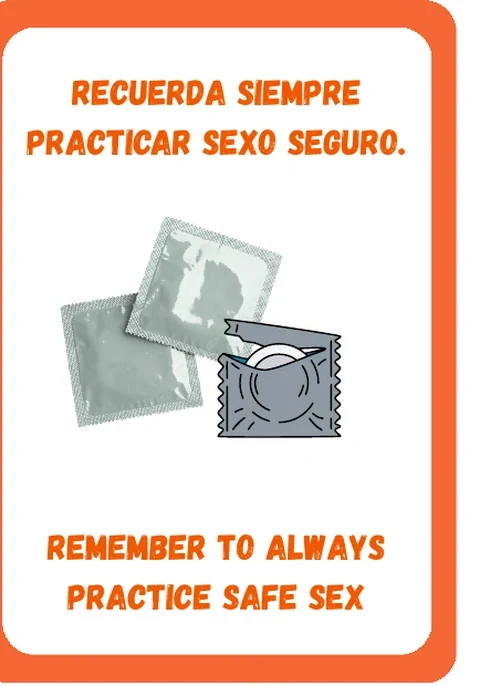
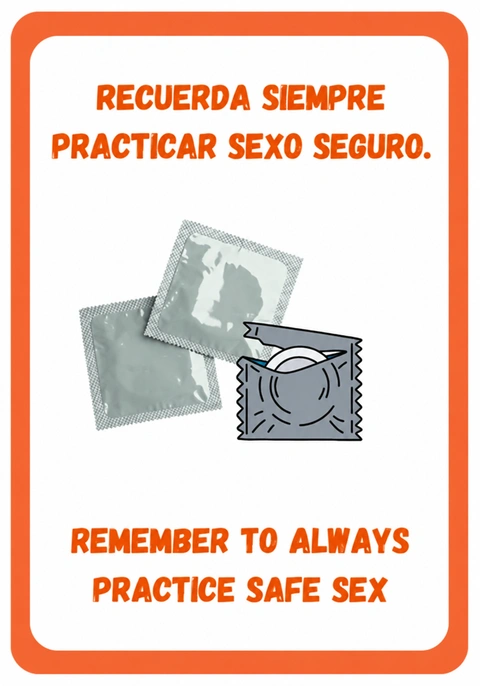
Fixing onine effects and image

diff --git a/src/styles.css b/src/styles.css
@@ -869,26 +869,27 @@ h1 {
 }
 .memory-card.is-remote-reveal::before {
   z-index: -1;
-  inset: -7px;
-  border: 3px solid #4be8ff;
-  background: rgba(63, 218, 255, 0.13);
-  box-shadow: 0 0 0 2px rgba(255, 255, 255, 0.92),
-    0 0 15px 5px rgba(52, 222, 255, 0.95),
-    0 0 34px 12px rgba(83, 87, 255, 0.72),
-    0 0 58px 18px rgba(210, 35, 255, 0.38);
+  inset: -5px;
+  border: 2px solid rgba(75, 232, 255, 0.78);
+  background: rgba(63, 218, 255, 0.07);
+  box-shadow: 0 0 0 1px rgba(255, 255, 255, 0.72),
+    0 0 10px 3px rgba(52, 222, 255, 0.48),
+    0 0 22px 7px rgba(83, 87, 255, 0.3),
+    0 0 34px 10px rgba(210, 35, 255, 0.14);
   animation: remote-glow-pulse 0.82s ease-in-out infinite alternate;
 }
 .memory-card.is-remote-reveal::after {
   z-index: -2;
-  inset: -13px;
-  border: 2px solid rgba(99, 235, 255, 0.78);
+  inset: -9px;
+  border: 1px solid rgba(99, 235, 255, 0.42);
   animation: remote-ring-wave 1.15s ease-out infinite;
 }
 .memory-card.is-remote-reveal .card-front,
 .memory-card.is-remote-reveal .card-back {
-  box-shadow: 0 0 0 3px #fff, 0 0 18px 7px #3fe5ff,
-    0 0 38px 14px rgba(92, 73, 255, 0.82),
-    0 18px 35px rgba(32, 20, 88, 0.45);
+  box-shadow: 0 0 0 2px rgba(255, 255, 255, 0.9),
+    0 0 12px 4px rgba(63, 229, 255, 0.55),
+    0 0 24px 8px rgba(92, 73, 255, 0.34),
+    0 14px 28px rgba(32, 20, 88, 0.25);
 }
 .memory-card.is-remote-pair-hold {
   z-index: 16;
@@ -897,10 +898,11 @@ h1 {
   transform: rotateY(180deg) translateY(-3px) scale(1.035);
 }
 .memory-card.is-remote-pair-hold .card-front {
-  box-shadow: 0 0 0 4px #fff, 0 0 20px 8px #21e4ff,
-    0 0 44px 16px rgba(91, 71, 255, 0.92),
-    0 0 68px 23px rgba(213, 43, 255, 0.48),
-    0 20px 38px rgba(28, 21, 88, 0.48);
+  box-shadow: 0 0 0 2px rgba(255, 255, 255, 0.92),
+    0 0 13px 4px rgba(33, 228, 255, 0.58),
+    0 0 27px 9px rgba(91, 71, 255, 0.38),
+    0 0 39px 13px rgba(213, 43, 255, 0.17),
+    0 15px 30px rgba(28, 21, 88, 0.27);
   animation: held-pair-face-pulse 0.2s ease-in-out infinite alternate;
 }
 @keyframes held-pair-face-pulse {
@@ -923,7 +925,7 @@ h1 {
   border-radius: 999px;
   color: #fff;
   background: linear-gradient(135deg, #02c8ed, #5d49ef 60%, #b229ec);
-  box-shadow: 0 0 14px rgba(45, 222, 255, 0.95), 0 5px 15px rgba(35, 29, 102, 0.42);
+  box-shadow: 0 0 9px rgba(45, 222, 255, 0.48), 0 4px 11px rgba(35, 29, 102, 0.28);
   font-size: 0.7rem;
   font-weight: 950;
   line-height: 1;
@@ -946,17 +948,17 @@ h1 {
   border: 2px solid rgba(255, 193, 54, 0.96);
   border-radius: 11%;
   background: rgba(255, 196, 59, 0.08);
-  box-shadow: 0 0 0 2px rgba(255, 255, 255, 0.72),
-    0 0 15px 4px rgba(255, 186, 41, 0.62),
-    0 0 28px 8px rgba(238, 104, 43, 0.28);
+  box-shadow: 0 0 0 1px rgba(255, 255, 255, 0.62),
+    0 0 10px 3px rgba(255, 186, 41, 0.38),
+    0 0 19px 5px rgba(238, 104, 43, 0.16);
   pointer-events: none;
   animation: remote-history-breathe 1.65s ease-in-out infinite alternate;
 }
 .memory-card.is-remote-history .card-front,
 .memory-card.is-remote-history .card-back {
-  box-shadow: 0 0 0 2px rgba(255, 255, 255, 0.88),
-    0 0 18px 5px rgba(255, 184, 38, 0.65),
-    0 12px 28px rgba(120, 65, 31, 0.3);
+  box-shadow: 0 0 0 1px rgba(255, 255, 255, 0.78),
+    0 0 12px 3px rgba(255, 184, 38, 0.4),
+    0 10px 22px rgba(120, 65, 31, 0.2);
 }
 .remote-history-badge {
   position: absolute;
@@ -971,7 +973,7 @@ h1 {
   border-radius: 50%;
   color: #fff;
   background: linear-gradient(135deg, #ffbd2f, #ee6b2f);
-  box-shadow: 0 0 12px rgba(255, 178, 35, 0.78), 0 4px 11px rgba(105, 54, 24, 0.34);
+  box-shadow: 0 0 8px rgba(255, 178, 35, 0.44), 0 3px 9px rgba(105, 54, 24, 0.24);
 }
 .remote-history-badge svg { width: 11px; height: 11px; stroke-width: 2.5; }
 @keyframes remote-history-settle {
@@ -1113,11 +1115,11 @@ h1 {
   .card-art-preview.is-remote .card-art-label {
     border-color: rgba(112, 235, 255, 0.68);
     background: rgba(18, 117, 164, 0.42);
-    box-shadow: 0 0 22px rgba(55, 220, 255, 0.38);
+    box-shadow: 0 0 14px rgba(55, 220, 255, 0.22);
   }
   .card-art-preview.is-remote .card-art-preview-inner img {
-    box-shadow: 0 0 0 6px rgba(47, 221, 255, 0.48),
-      0 28px 70px rgba(0, 0, 0, 0.52), 0 0 58px rgba(100, 73, 255, 0.78);
+    box-shadow: 0 0 0 4px rgba(47, 221, 255, 0.3),
+      0 24px 58px rgba(0, 0, 0, 0.42), 0 0 34px rgba(100, 73, 255, 0.38);
   }
 }
 @keyframes preview-fade-in {
@@ -1898,7 +1900,7 @@ h1 {
 }
 .turn-banner.has-remote-action {
   border-color: rgba(36, 210, 240, 0.72);
-  box-shadow: 0 0 0 3px rgba(49, 218, 244, 0.12), 0 9px 25px rgba(65, 72, 191, 0.14);
+  box-shadow: 0 0 0 2px rgba(49, 218, 244, 0.08), 0 7px 19px rgba(65, 72, 191, 0.09);
   animation: remote-banner-pulse 0.85s ease-in-out infinite alternate;
 }
 .remote-reveal-notice {
@@ -1927,7 +1929,7 @@ h1 {
   border-radius: 10px;
   color: #fff;
   background: linear-gradient(135deg, #16cce9, #6d4ee7);
-  box-shadow: 0 0 17px rgba(45, 212, 241, 0.54);
+  box-shadow: 0 0 10px rgba(45, 212, 241, 0.3);
 }
 .remote-reveal-icon svg { width: 16px; height: 16px; }
 .remote-reveal-count {
@@ -1943,13 +1945,13 @@ h1 {
 .remote-reveal-notice.is-holding-pair {
   border-color: rgba(87, 75, 236, 0.72);
   background: linear-gradient(120deg, rgba(225, 251, 255, 0.99), rgba(239, 231, 255, 0.99));
-  box-shadow: 0 0 0 3px rgba(45, 220, 247, 0.12), 0 10px 29px rgba(73, 59, 202, 0.2);
+  box-shadow: 0 0 0 2px rgba(45, 220, 247, 0.08), 0 8px 22px rgba(73, 59, 202, 0.12);
 }
 .remote-reveal-notice.is-holding-pair .remote-reveal-icon {
   animation: held-pair-icon-pulse 0.72s ease-in-out infinite alternate;
 }
-@keyframes held-pair-icon-pulse { to { transform: scale(1.1); box-shadow: 0 0 25px rgba(45, 212, 241, 0.82); } }
-@keyframes remote-banner-pulse { to { box-shadow: 0 0 0 4px rgba(49, 218, 244, 0.18), 0 10px 29px rgba(65, 72, 191, 0.2); } }
+@keyframes held-pair-icon-pulse { to { transform: scale(1.06); box-shadow: 0 0 14px rgba(45, 212, 241, 0.44); } }
+@keyframes remote-banner-pulse { to { box-shadow: 0 0 0 3px rgba(49, 218, 244, 0.11), 0 8px 22px rgba(65, 72, 191, 0.12); } }
 @keyframes remote-notice-in { from { opacity: 0; transform: translateY(-8px); } to { opacity: 1; transform: none; } }
 .presence-label {
   display: flex;

diff --git a/src/components/OnlineGameScreen.tsx b/src/components/OnlineGameScreen.tsx
@@ -117,7 +117,7 @@ export default function OnlineGameScreen({ roomId, onLeave }: OnlineGameScreenPr
     if (previous.length === 0 && remoteHighlightsRef.current.length > 0) {
       setRemoteHistory((history) => Array.from(new Set([...history, ...remoteHighlightsRef.current])).filter((index) => index !== latestIndex).slice(-6));
       if (remoteHistoryTimerRef.current !== null) window.clearTimeout(remoteHistoryTimerRef.current);
-      remoteHistoryTimerRef.current = window.setTimeout(() => setRemoteHistory([]), 10000);
+      remoteHistoryTimerRef.current = window.setTimeout(() => setRemoteHistory([]), 2000);
     }
     const nextHighlights = previous.length === 0 ? [latestIndex] : Array.from(new Set([...remoteHighlightsRef.current, latestIndex])).slice(-2);
     remoteHighlightsRef.current = nextHighlights;
@@ -126,7 +126,7 @@ export default function OnlineGameScreen({ roomId, onLeave }: OnlineGameScreenPr
     remoteHighlightTimerRef.current = window.setTimeout(() => {
       remoteHighlightsRef.current = [];
       setRemoteHighlights([]);
-    }, 10000);
+    }, 2000);
     playEffect("flip");
 
     if (nextHighlights.length === 2) {
@@ -192,7 +192,7 @@ export default function OnlineGameScreen({ roomId, onLeave }: OnlineGameScreenPr
     const canHint = Boolean(room && remainingPairs === 3 && isMyTurn && room.flipped_indices.length < 2);
     setShowEndgameHint(false);
     if (!canHint) return;
-    const timer = window.setTimeout(() => setShowEndgameHint(true), 6000);
+    const timer = window.setTimeout(() => setShowEndgameHint(true), 2000);
     return () => window.clearTimeout(timer);
   }, [flippedPairKey, isMyTurn, room?.matched_pair_ids.length, room?.pair_count]);
 
@@ -216,7 +216,15 @@ export default function OnlineGameScreen({ roomId, onLeave }: OnlineGameScreenPr
     return (
       <main className="online-shell lobby-shell">
         <section className="lobby-wrap">
-          <header className="lobby-header"><button className="home-button" type="button" onClick={leave}><Icon name="arrowLeft" /></button><div><span className="hero-kicker">{t("privateRoom")}</span><h1>{t("waitingPlayers")}</h1></div><span className="live-pill"><i /> {t("online")}</span></header>
+          <header className="lobby-header">
+            <button className="home-button" type="button" onClick={leave}>
+              <Icon name="arrowLeft" />
+            </button>
+            <div>
+              <span className="hero-kicker">{t("privateRoom")}
+              </span>
+              <h1>{t("waitingPlayers")}</h1></div><span className="live-pill"><i /> {t("online")}</span>
+          </header>
           <section className="invite-code-panel"><small>{t("shareCode")}</small><strong>{room.code}</strong><button type="button" onClick={() => void navigator.clipboard.writeText(room.code)}>{t("copyCode")}</button></section>
           <InvitePlayers code={room.code} />
           <section className="lobby-panel">
@@ -325,11 +333,11 @@ export default function OnlineGameScreen({ roomId, onLeave }: OnlineGameScreenPr
                 void perform(() => flipOnlineCard(room.id, index));
               }}
             >
-              {remotePickOrder > 0 &&
+              {/* {remotePickOrder > 0 &&
                 <span className="remote-pick-badge">
                   <Icon name="wifi" />{remotePickOrder}
                 </span>
-              }
+              } */}
               {isRecentRemotePick && <span className="remote-history-badge">
                 <Icon name="clock" />
               </span>}<span className="card-inner">

diff --git a/src/components/HomeScreen.tsx b/src/components/HomeScreen.tsx
@@ -131,7 +131,7 @@ export default function HomeScreen({
           </div>
           <div className="hero-card-stack" aria-hidden="true">
             <div className="stack-card stack-card-back">
-              <img src="/cards-v2/back.webp" alt="" />
+              <img src="/cards-v2/back-puerto-rico.webp" alt="" />
             </div>
             <div className="stack-card stack-card-middle">
               <img src="/cards-v2/card-23.webp" alt="" />
